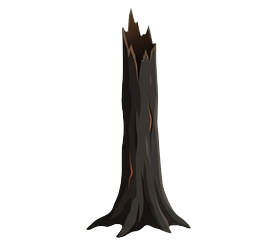
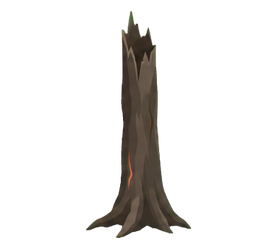
feat(art): 차원문 전투 꺾인 탄 줄기에 컷페이퍼 아트 적용

Changed region(s): [[0.2888, 0.0289, 0.6931, 0.9835]]

diff --git a/.art/PRODUCTION-STATUS.md b/.art/PRODUCTION-STATUS.md
@@ -207,7 +207,7 @@
 | `Adventure/gate_adventure_map_stage5.png` | 클라이언트 PR (이슈 #504) | **모험 화면 검수 대기.** 무광 절개면으로 회색 암반을 다시 그리고 불꽃·번개 차원문 다섯 개의 배치를 유지했다. 867×256 RGB, Stage5와 준비 화면 참조 유지. 비교한 가로 단면 6곳에서 길 중심 차이는 최대 2px이고 폭은 기존 79–83px에서 19–21px로 줄었다. |
 | `Adventure/gate_adventure_map_stage6.png` | 클라이언트 PR (이슈 #506) | **모험 화면 검수 대기.** 5단계 지도와 같은 무광 암반을 적용했다. 길 끝의 속 빈 그루터기와 주황·보라 차원문 두 개를 유지했다. 867×256 RGB와 Stage6의 Sprite 참조를 확인했다. 비교한 가로 단면 6곳에서 길 중심 차이는 최대 2.5px이고 폭은 기존 72–75px에서 21–22px로 줄었다. |
 | `Background/Gate/background.png` | 클라이언트 PR (이슈 #510) | **플레이 검수 대기.** 차원문 5·6단계 지도와 같은 무광 암반 면을 적용하고 어두운 균열의 밀도를 줄였다. 1254×1254 RGB와 Repeat 임포트 설정을 유지했다. 양쪽 가장자리의 RGB 값이 행·열 단위로 일치하며 2×2 반복 위에 차원문 유닛 4종을 합성해 확인했다. |
-| `Background/Gate/tree_1.png` | 클라이언트 PR (이슈 #235) | **검수 대기, 자리표시 아트.** 차원문 모험(adventure 3) 전투 배경 theme 의 새 파일(`Background/Fortress/tree_1.png` 와 같은 이름·크기). 277x242 RGBA, 꺾인 탄 줄기. `GateBattleTheme.asset` 이 참조하고 `GateAdventure.asset` 의 `battleTheme` 이 이 asset 을 가리킨다. `agy` 생성, 초록 배경 key 제거. Editor 미검증 |
+| `Background/Gate/tree_1.png` | 클라이언트 PR (이슈 #520) | **실제 경기 검수 대기.** 끝이 부러진 줄기와 기울어진 실루엣을 살린 무광 컷페이퍼 아트다. 277×242 RGBA, 기존 GUID·임포트와 알파 가로 외곽 및 바닥 높이를 유지했다. 알파 외곽의 위쪽은 3px 낮아졌다. |
 | `Background/Gate/tree_2.png` | 클라이언트 PR (이슈 #235) | **검수 대기, 자리표시 아트.** 차원문 모험(adventure 3) 전투 배경 theme 의 새 파일(`Background/Fortress/tree_2.png` 와 같은 이름·크기). 265x222 RGBA, 가지 둘 달린 탄 줄기. `GateBattleTheme.asset` 이 참조하고 `GateAdventure.asset` 의 `battleTheme` 이 이 asset 을 가리킨다. `agy` 생성, 초록 배경 key 제거. Editor 미검증 |
 | `Background/Gate/tree_3.png` | 클라이언트 PR (이슈 #515) | **실제 경기 검수 대기.** 차원문 6단계 지도와 맞춘 무광 그루터기다. 열린 윗부분과 돌출된 뿌리, 어두운 주황 균열을 남겼다. 234×218, PPU 100, 하단 중앙 피벗. 알파 바닥선은 기존과 같고 외곽 폭은 207px에서 201px로 줄었다. |
 | `Background/Gate/tree_4.png` | 클라이언트 PR (이슈 #235) | **검수 대기, 자리표시 아트.** 차원문 모험(adventure 3) 전투 배경 theme 의 새 파일(`Background/Fortress/tree_4.png` 와 같은 이름·크기). 328x264 RGBA, 굽은 가지가 달린 굵은 탄 줄기. `GateBattleTheme.asset` 이 참조하고 `GateAdventure.asset` 의 `battleTheme` 이 이 asset 을 가리킨다. `agy` 생성, 초록 배경 key 제거. Editor 미검증 |
